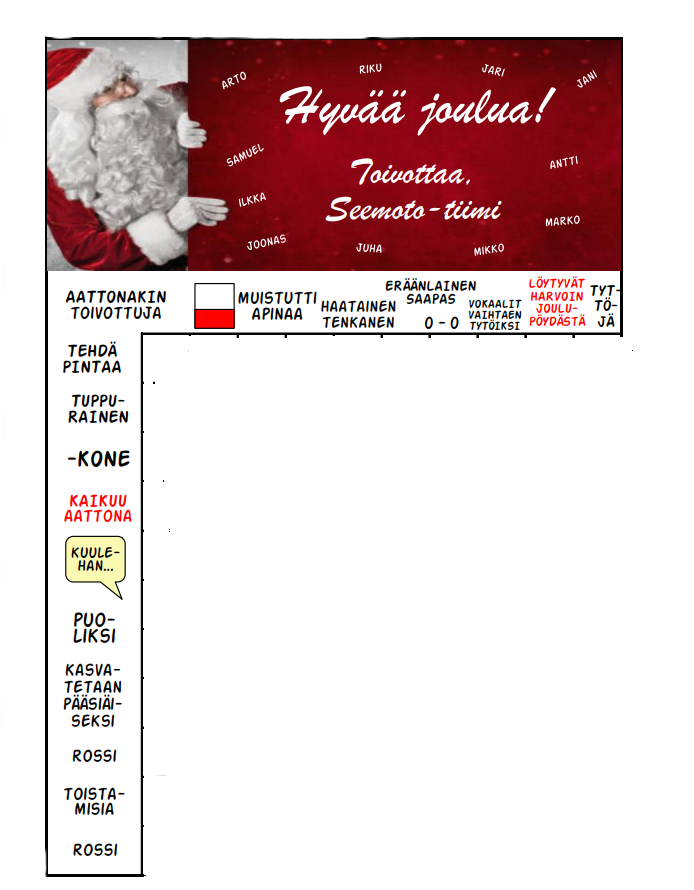
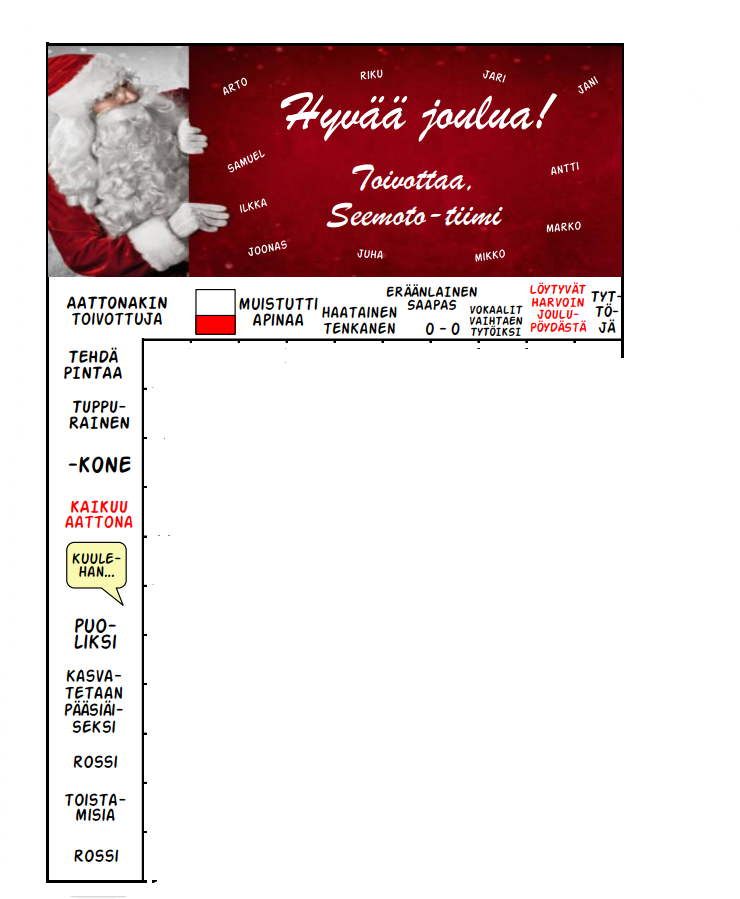
Lisätty taustakuva

Changed region(s): [[0.0605, 0.0303, 0.9078, 1.0], [0.3026, 0.091, 0.3329, 0.1213]]

diff --git a/src/CrosswordGrid.jsx b/src/CrosswordGrid.jsx
@@ -144,7 +144,12 @@ function CrosswordGrid() {
 
 
     const handleClick = (itemId) => {
+        event.preventDefault();
+        event.stopPropagation();
         // Toggle selection mode if the same item is clicked consecutively
+        if (invisibleInputRef.current) {
+            invisibleInputRef.current.focus({ preventScroll: true });
+        }
         if (lastClickedItem === itemId) {
             setSelectionMode(prevMode => prevMode === 'horizontal' ? 'vertical' : 'horizontal');
         } else {
@@ -192,6 +197,11 @@ function CrosswordGrid() {
  
 
     const handleKeyPress = (event) => {
+
+        
+        if (invisibleInputRef.current) {
+            invisibleInputRef.current.focus({ preventScroll: true });
+        }
         if (!selectedItemId) return;
     
         let updatedContent = { ...gridContentRef.current };
@@ -259,7 +269,7 @@ function CrosswordGrid() {
     };
 
     return (
-        <div className="canvas" onTouchStart={handleTouchStart} onTouchMove={handleTouchMove}>
+        <div className="canvas background" onTouchStart={handleTouchStart} onTouchMove={handleTouchMove}>
             <input
                 ref={invisibleInputRef}
                 className="invisible-input"

diff --git a/src/CrosswordGrid.css b/src/CrosswordGrid.css
@@ -1,9 +1,25 @@
+.canvas {
+  position: relative;
+  
+}
+
+.background{
+  background-image: url('assets/images/tausta.png');
+  background-repeat: no-repeat;
+  height: 130vh;
+  width: 109vh;
+  background-size: cover;
+  top: 10%;
+  
+}
 .grid-container {
   display: grid;
-  grid-template-columns: repeat(10, 2cm);
-  grid-template-rows: repeat(11, 2cm);
-  position: relative;
-  margin-top: 500px; /* Adjust the value as needed */
+  grid-template-columns: repeat(10, 1.64cm);
+  grid-template-rows: repeat(11, 1.64cm);
+  position: absolute;
+  margin-top: 426px; /* Adjust the value as needed */
+  left: 19%;
+
 
 
   
@@ -35,9 +51,7 @@
 
 
 
-.canvas {
-  position: relative;
-}
+
 .special-1{
   background-image: url('assets/images/1-kysymys.png');
   background-repeat: no-repeat;
